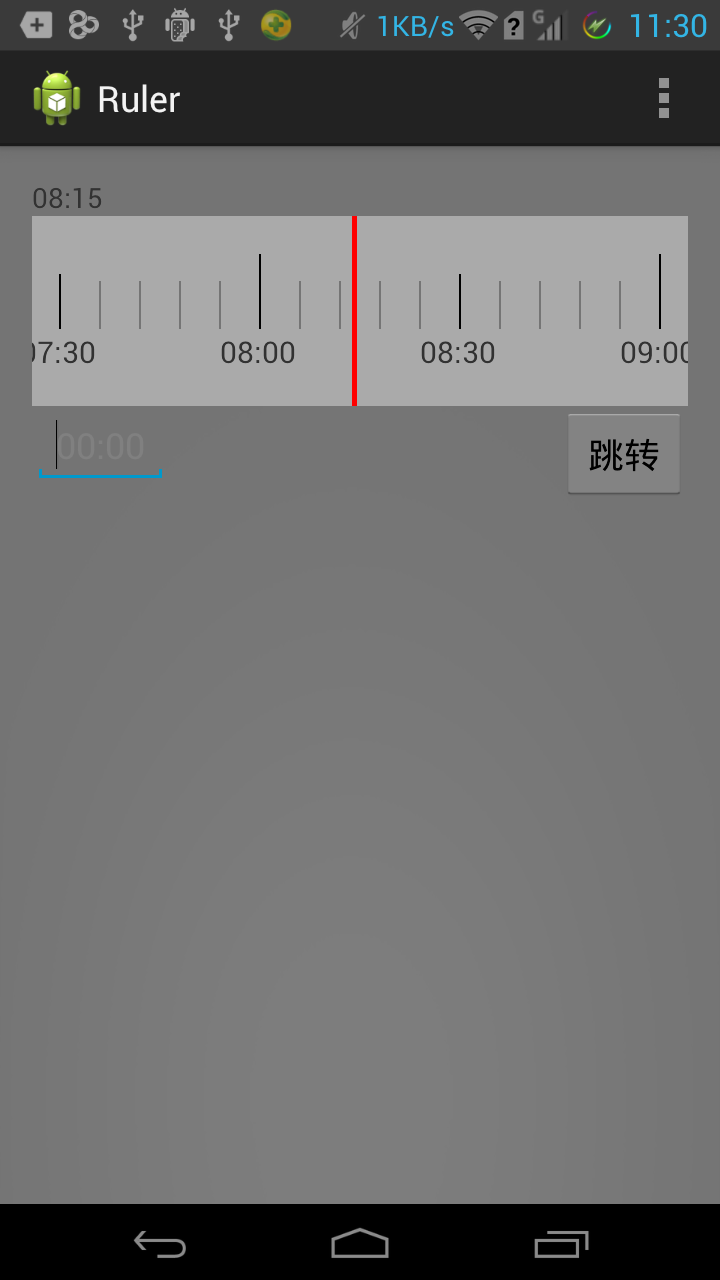
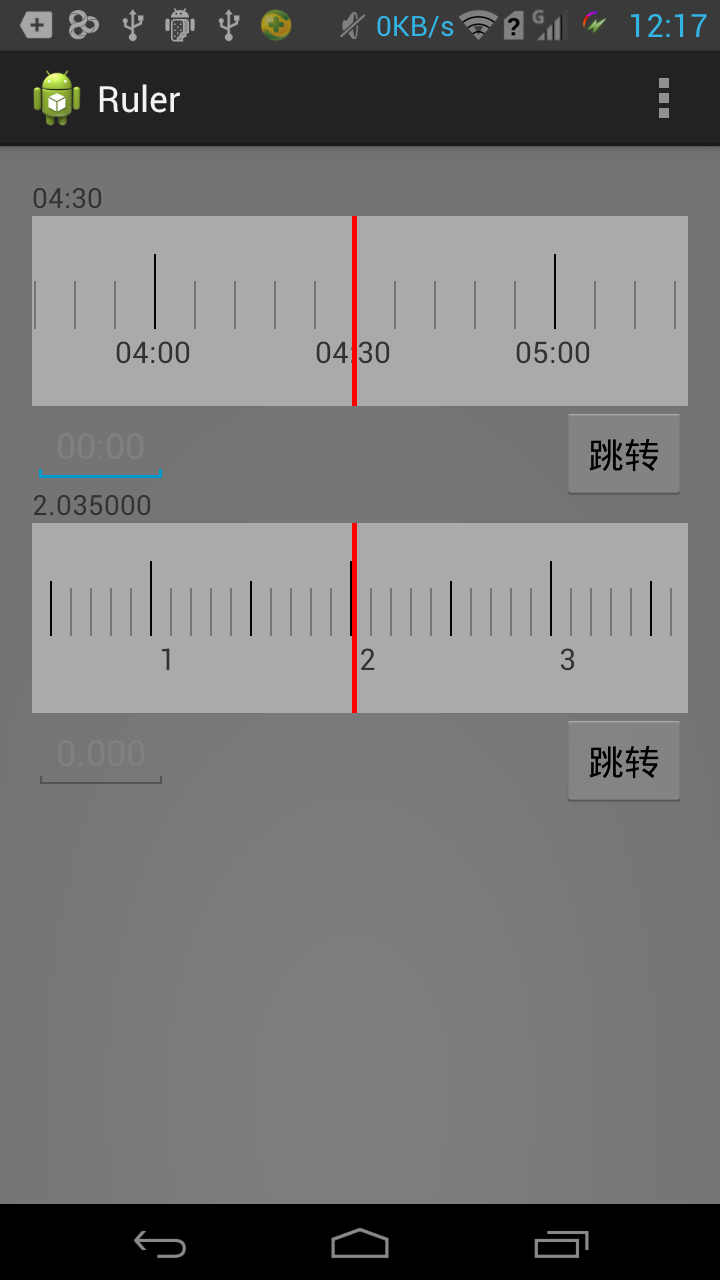
修改截图

diff --git a/src/com/joey/ruler/MainActivity.java b/src/com/joey/ruler/MainActivity.java
@@ -18,6 +18,10 @@ public class MainActivity extends Activity {
 	TextView result;
 	EditText editText;
 	Button button;
+	Ruler ruler2;
+	TextView result2;
+	EditText editText2;
+	Button button2;
 
 	@Override
 	protected void onCreate(Bundle savedInstanceState) {
@@ -29,6 +33,13 @@ public class MainActivity extends Activity {
 		editText = (EditText)findViewById(R.id.edit_text);
 		button = (Button)findViewById(R.id.button);
 		button.setOnClickListener(clickListener);
+		
+		ruler2 = (Ruler)findViewById(R.id.ruler2);
+		result2 = (TextView)findViewById(R.id.result_text2);
+		ruler2.setRulerHandler(rulerHandler2);
+		editText2 = (EditText)findViewById(R.id.edit_text2);
+		button2 = (Button)findViewById(R.id.button2);
+		button2.setOnClickListener(clickListener);
 	}
 
 	@Override
@@ -48,6 +59,15 @@ public class MainActivity extends Activity {
 			result.setText(String.format("%02d:%02d", hour,minute));
 		}
 	};
+	private RulerHandler rulerHandler2 = new RulerHandler() {
+		
+		@Override
+		public void markScrollto(int max, int min, float val) {
+			// TODO Auto-generated method stub
+			
+			result2.setText(String.format("%f", ((float)max+((float)min+val)/10)));
+		}
+	};
 	
 	private View.OnClickListener clickListener = new View.OnClickListener() {
 		
@@ -55,11 +75,19 @@ public class MainActivity extends Activity {
 		public void onClick(View v) {
 			// TODO Auto-generated method stub
 			Log.i("MainActivity","onClick");
-			String msg = editText.getText().toString();
-			if(msg == null ||msg.isEmpty())
-				return;
-			result.setText(msg);
-			ruler.scrollToTime(msg);
+			
+			switch(v.getId())
+			{
+			case R.id.edit_text:
+				String msg = editText.getText().toString();
+				if(msg == null ||msg.isEmpty())
+					return;
+				result.setText(msg);
+				ruler.scrollToTime(msg);
+			case R.id.edit_text2:
+				break;
+			}
+		
 		}
 	};
 }

diff --git a/src/com/joey/ruler/library/Ruler.java b/src/com/joey/ruler/library/Ruler.java
@@ -376,7 +376,7 @@ public class Ruler extends FrameLayout {
 				int scrollX = scrollerView.getScrollX();
 
 				int newScrollX = (scrollX + getWidth() / 2
-						- dp2px((int) padding) - dp2px((int) minUnitSize) / 2);
+						- dp2px((int) padding) - dp2px((int) minUnitSize + UNIT_ITEM_WIDTH) / 2);
 				int bigUnitSize = (dp2px((int) minUnitSize) * perUnitCount);
 				int smallUnitSize = dp2px((int) minUnitSize);
 				int max = newScrollX / bigUnitSize;
